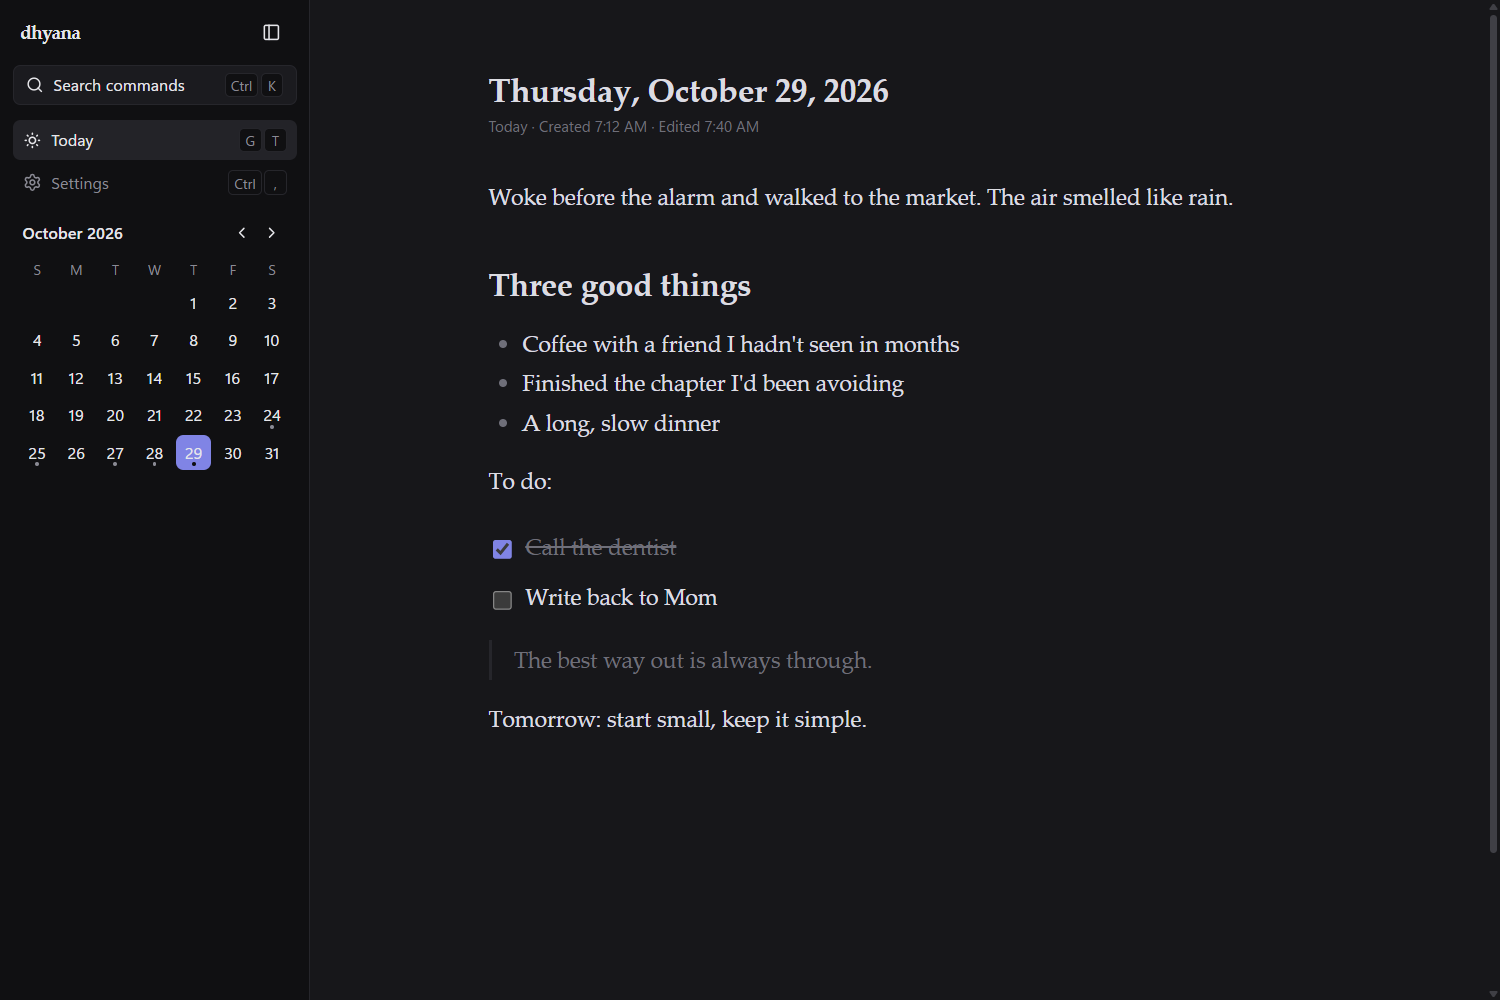
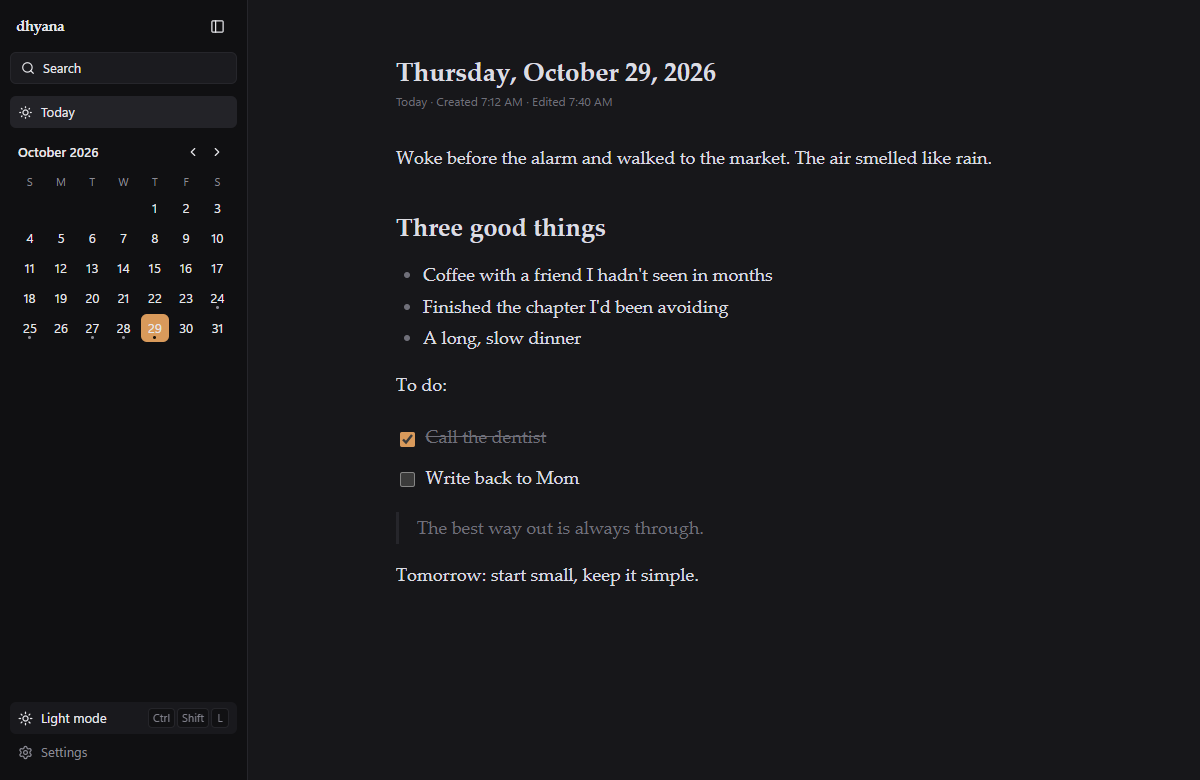
Sidebar and theme polish
- Settings moves to the bottom of the sidebar, with a dark/light toggle above it
- Shortcut hints on Today, Settings, Search and the toggle show on hover only
- "Search commands" becomes "Search"
- Themes are Dhyana (paper), Light and Dark; the sidebar and all chrome follow
  the theme instead of staying neutral grey
- Replace the indigo accent with a warm sienna (amber in dark) so buttons,
  selection and checkboxes match the rest of the app
- Toggle remembers which light theme to return to; Mod+Shift+L; toasts follow theme
- Update plans, shortcuts doc and README screenshots

diff --git a/src/components/Shell.tsx b/src/components/Shell.tsx
@@ -1,5 +1,5 @@
 import { Link, Outlet, useNavigate, useParams, useRouterState } from "@tanstack/react-router";
-import { PanelLeft, Search, Settings as SettingsIcon, SunMedium } from "lucide-react";
+import { Moon, PanelLeft, Search, Settings as SettingsIcon, Sun, SunMedium } from "lucide-react";
 import { useEffect } from "react";
 import { Toaster } from "sonner";
 import { useActions, useHotkeys, useRolloverNotice } from "@/app/actions";
@@ -28,6 +28,7 @@ export function Shell() {
     return () => dispose?.();
   }, []);
 
+  const dark = app.app?.theme === "dark";
   const shortcutOf = (id: string) => actions.find((a) => a.id === id)?.shortcut;
 
   return (
@@ -48,11 +49,11 @@ export function Shell() {
 
         <button
           onClick={() => app.openPalette("commands")}
-          className="flex h-8 items-center gap-2 rounded-md border border-border bg-popover px-2.5 text-muted transition-colors duration-100 hover:bg-chrome-hover"
+          className="group flex h-8 items-center gap-2 rounded-md border border-border bg-popover px-2.5 text-muted transition-colors duration-100 hover:bg-chrome-hover"
         >
           <Search size={14} />
-          <span className="flex-1 text-left">Search commands</span>
-          <Kbd shortcut="mod+k" />
+          <span className="flex-1 text-left">Search</span>
+          <Kbd shortcut="mod+k" className={REVEAL} />
         </button>
 
         <nav className="flex flex-col gap-0.5">
@@ -64,6 +65,19 @@ export function Shell() {
             label="Today"
             shortcut={shortcutOf("today")}
           />
+        </nav>
+
+        <Calendar selected={selected} onSelect={(date) => navigate({ to: "/day/$date", params: { date } })} />
+
+        <div className="mt-auto flex flex-col gap-0.5">
+          <button
+            onClick={() => void app.toggleMode()}
+            className={cn(ROW, "group text-muted hover:bg-chrome-hover hover:text-fg")}
+          >
+            {dark ? <Sun size={15} /> : <Moon size={15} />}
+            <span className="flex-1 text-left">{dark ? "Light mode" : "Dark mode"}</span>
+            {shortcutOf("mode") && <Kbd shortcut={shortcutOf("mode")!} className={REVEAL} />}
+          </button>
           <NavLink
             to="/settings"
             active={onSettings}
@@ -71,9 +85,7 @@ export function Shell() {
             label="Settings"
             shortcut={shortcutOf("settings")}
           />
-        </nav>
-
-        <Calendar selected={selected} onSelect={(date) => navigate({ to: "/day/$date", params: { date } })} />
+        </div>
       </aside>
 
       <main className="relative min-w-0 flex-1 overflow-hidden bg-surface">
@@ -88,10 +100,20 @@ export function Shell() {
       </main>
 
       <CommandPalette actions={actions} />
-      <Toaster position="bottom-right" theme="system" toastOptions={{ className: "!font-[family-name:var(--font-ui)]" }} />
+      <Toaster
+        position="bottom-right"
+        theme={dark ? "dark" : "light"}
+        toastOptions={{
+          style: { background: "var(--popover)", color: "var(--fg)", border: "1px solid var(--border)", fontFamily: "var(--font-ui)" },
+        }}
+      />
     </div>
   );
 }
+
+/** Shortcut hints appear only while the row is hovered or keyboard-focused. */
+const REVEAL = "opacity-0 transition-opacity duration-100 group-hover:opacity-100 group-focus-visible:opacity-100";
+const ROW = "flex h-8 items-center gap-2 rounded-md px-2 text-[13px] transition-colors duration-100";
 
 function NavLink(props: {
   to: "/day/$date" | "/settings";
@@ -106,13 +128,14 @@ function NavLink(props: {
       to={props.to}
       params={props.params as never}
       className={cn(
-        "flex h-8 items-center gap-2 rounded-md px-2 text-[13px] transition-colors duration-100",
+        ROW,
+        "group",
         props.active ? "bg-chrome-active text-fg" : "text-muted hover:bg-chrome-hover hover:text-fg",
       )}
     >
       {props.icon}
       <span className="flex-1">{props.label}</span>
-      {props.shortcut && <Kbd shortcut={props.shortcut} />}
+      {props.shortcut && <Kbd shortcut={props.shortcut} className={REVEAL} />}
     </Link>
   );
 }

diff --git a/src/app/context.tsx b/src/app/context.tsx
@@ -18,6 +18,8 @@ interface AppContextValue {
   app: AppState | null;
   loadError: string | null;
   updateSettings(patch: SettingsPatch): Promise<void>;
+  /** Flip between dark and the light theme you were last using (dhyana or light). */
+  toggleMode(): Promise<void>;
   setVault(path: string): Promise<void>;
   /** Live-preview an appearance without persisting it (onboarding). Pass null to revert. */
   previewAppearance(a: { theme: Theme; font: Font } | null): void;
@@ -50,6 +52,24 @@ export function useApp(): AppContextValue {
   const v = useContext(Ctx);
   if (!v) throw new Error("useApp outside AppProvider");
   return v;
+}
+
+const LAST_LIGHT_KEY = "dhyana:lastLightTheme";
+
+function rememberLight(theme: Theme) {
+  try {
+    localStorage.setItem(LAST_LIGHT_KEY, theme);
+  } catch {
+    /* storage unavailable: fall back to the dhyana theme */
+  }
+}
+
+function recallLight(): Theme {
+  try {
+    return localStorage.getItem(LAST_LIGHT_KEY) === "light" ? "light" : "paper";
+  } catch {
+    return "paper";
+  }
 }
 
 function applyAppearance(theme: Theme, font: Font) {
@@ -96,6 +116,16 @@ export function AppProvider({ children }: { children: ReactNode }) {
     applyAppearance(next.theme, next.font);
   }, []);
 
+  const toggleMode = useCallback(async () => {
+    if (!app) return;
+    if (app.theme === "dark") {
+      await updateSettings({ theme: recallLight() });
+    } else {
+      rememberLight(app.theme);
+      await updateSettings({ theme: "dark" });
+    }
+  }, [app, updateSettings]);
+
   const setVault = useCallback(async (path: string) => {
     setApp(await backend.setVault(path));
     setDaysVersion((v) => v + 1);
@@ -114,6 +144,7 @@ export function AppProvider({ children }: { children: ReactNode }) {
       app,
       loadError,
       updateSettings,
+      toggleMode,
       setVault,
       previewAppearance,
       today,
@@ -133,7 +164,7 @@ export function AppProvider({ children }: { children: ReactNode }) {
       bumpDays: () => setDaysVersion((v) => v + 1),
       focusEditor,
     }),
-    [app, loadError, updateSettings, setVault, previewAppearance, today, replaying, sidebarOpen, paletteOpen, paletteMode, daysVersion],
+    [app, loadError, updateSettings, toggleMode, setVault, previewAppearance, today, replaying, sidebarOpen, paletteOpen, paletteMode, daysVersion],
   );
 
   return <Ctx.Provider value={value}>{children}</Ctx.Provider>;

diff --git a/src/styles/index.css b/src/styles/index.css
@@ -1,34 +1,45 @@
 @import "tailwindcss";
 
 /* ---------------------------------------------------------------------------------------------
-   Design tokens. Chrome (sidebar, palette, settings) stays Linear-neutral in every theme; the
-   "paper" theme only warms the writing surface.
+   Design tokens. Three themes: "paper" (the dhyana theme, the default), "light" and "dark".
+   The whole app, sidebar included, follows the theme. The accent is a warm sienna in all three.
    --------------------------------------------------------------------------------------------- */
 :root,
 :root[data-theme="paper"] {
-  --chrome: #f6f6f7;
-  --chrome-hover: #ececee;
-  --chrome-active: #e4e4e8;
+  --chrome: #efe6d3;
+  --chrome-hover: #e8dec9;
+  --chrome-active: #e0d4bb;
   --surface: #f6efe2;
   --surface-fg: #3b3226;
-  --surface-muted: #9a8c76;
+  --surface-muted: #8a7c66;
   --surface-line: #e6dcc7;
-  --fg: #1f1f23;
-  --muted: #74747e;
-  --border: #e3e3e7;
-  --accent: #5e6ad2;
-  --accent-fg: #ffffff;
-  --popover: #ffffff;
+  --fg: #3b3226;
+  --muted: #6f6350;
+  --border: #e0d4bb;
+  --accent: #9a5b2e;
+  --accent-fg: #fff8ee;
+  --popover: #fbf7ee;
   --code-bg: rgba(90, 70, 40, 0.08);
-  --selection: rgba(94, 106, 210, 0.22);
+  --selection: rgba(154, 91, 46, 0.22);
   color-scheme: light;
 }
 :root[data-theme="light"] {
+  --chrome: #f6f6f7;
+  --chrome-hover: #ececee;
+  --chrome-active: #e4e4e8;
   --surface: #ffffff;
   --surface-fg: #1f1f23;
   --surface-muted: #8b8b95;
   --surface-line: #ebebef;
+  --fg: #1f1f23;
+  --muted: #74747e;
+  --border: #e3e3e7;
+  --accent: #9a5b2e;
+  --accent-fg: #ffffff;
+  --popover: #ffffff;
   --code-bg: rgba(0, 0, 0, 0.05);
+  --selection: rgba(154, 91, 46, 0.2);
+  color-scheme: light;
 }
 :root[data-theme="dark"] {
   --chrome: #101012;
@@ -41,11 +52,11 @@
   --fg: #e6e6ea;
   --muted: #8a8a94;
   --border: #26262b;
-  --accent: #7a85e8;
-  --accent-fg: #0e0e10;
+  --accent: #d99a5b;
+  --accent-fg: #1a1208;
   --popover: #1b1b1f;
   --code-bg: rgba(255, 255, 255, 0.07);
-  --selection: rgba(122, 133, 232, 0.3);
+  --selection: rgba(217, 154, 91, 0.28);
   color-scheme: dark;
 }
 

diff --git a/src/components/SettingsPage.tsx b/src/components/SettingsPage.tsx
@@ -9,6 +9,7 @@ import { cn } from "@/lib/utils";
 const THEMES: Theme[] = ["paper", "light", "dark"];
 const FONTS: Font[] = ["serif", "sans", "mono"];
 const cap = (s: string) => s[0].toUpperCase() + s.slice(1);
+const THEME_LABELS: Record<Theme, string> = { paper: "Dhyana", light: "Light", dark: "Dark" };
 
 export function SettingsPage() {
   const app = useApp();
@@ -29,7 +30,7 @@ export function SettingsPage() {
 
         <Section title="Appearance">
           <Row label="Theme">
-            <Segmented options={THEMES} value={state.theme} onChange={(theme) => void app.updateSettings({ theme })} />
+            <Segmented options={THEMES} labels={THEME_LABELS} value={state.theme} onChange={(theme) => void app.updateSettings({ theme })} />
           </Row>
           <Row label="Writing font">
             <Segmented options={FONTS} value={state.font} onChange={(font) => void app.updateSettings({ font })} />
@@ -95,7 +96,17 @@ function Row({ label, hint, children }: { label: string; hint?: string; children
   );
 }
 
-function Segmented<T extends string>({ options, value, onChange }: { options: T[]; value: T; onChange(v: T): void }) {
+function Segmented<T extends string>({
+  options,
+  labels,
+  value,
+  onChange,
+}: {
+  options: T[];
+  labels?: Record<T, string>;
+  value: T;
+  onChange(v: T): void;
+}) {
   return (
     <div className="flex rounded-md border border-border bg-popover p-0.5" role="group">
       {options.map((o) => (
@@ -108,7 +119,7 @@ function Segmented<T extends string>({ options, value, onChange }: { options: T[
             value === o ? "bg-chrome-active text-fg" : "text-muted hover:text-fg",
           )}
         >
-          {cap(o)}
+          {labels?.[o] ?? cap(o)}
         </button>
       ))}
     </div>

diff --git a/src/app/actions.ts b/src/app/actions.ts
@@ -25,13 +25,14 @@ export function useActions(): Action[] {
       { id: "sidebar", label: "Toggle sidebar", group: "App", shortcut: "mod+\\", run: app.toggleSidebar },
       { id: "settings", label: "Open settings", group: "App", shortcut: "mod+,", also: ["g s"], keywords: "preferences", run: () => navigate({ to: "/settings" }) },
       { id: "shortcuts", label: "Show keyboard shortcuts", group: "App", shortcut: "?", keywords: "help keys", run: () => navigate({ to: "/settings", hash: "shortcuts" }) },
-      { id: "theme-paper", label: "Theme: Paper", group: "App", keywords: "appearance warm", run: () => void app.updateSettings({ theme: "paper" }) },
+      { id: "mode", label: "Toggle dark / light mode", group: "App", shortcut: "mod+shift+l", keywords: "theme appearance night", run: () => void app.toggleMode() },
+      { id: "theme-paper", label: "Theme: Dhyana", group: "App", keywords: "appearance warm", run: () => void app.updateSettings({ theme: "paper" }) },
       { id: "theme-light", label: "Theme: Light", group: "App", keywords: "appearance", run: () => void app.updateSettings({ theme: "light" }) },
       { id: "theme-dark", label: "Theme: Dark", group: "App", keywords: "appearance night", run: () => void app.updateSettings({ theme: "dark" }) },
       { id: "onboarding", label: "Replay onboarding", group: "App", keywords: "welcome setup tour", run: app.replayOnboarding },
     ],
     // eslint-disable-next-line react-hooks/exhaustive-deps
-    [app.today, app.toggleSidebar, app.replayOnboarding, current, navigate],
+    [app.today, app.toggleSidebar, app.toggleMode, app.replayOnboarding, current, navigate],
   );
 }
 

diff --git a/index.html b/index.html
@@ -8,11 +8,10 @@
     <style>
       /* Static splash: visible before JS loads; removed once the vault is open. */
       #splash { position: fixed; inset: 0; display: flex; flex-direction: column; align-items: center;
-        justify-content: center; gap: 14px; background: #f4eee3; color: #8a7a62;
+        justify-content: center; gap: 14px; background: #f6efe2; color: #8a7c66;
         font: 500 15px/1 system-ui, sans-serif; letter-spacing: .02em; transition: opacity .15s; z-index: 100; }
       #splash .mark { font: 600 34px/1 Georgia, serif; color: #5b4a33; letter-spacing: .01em; }
-      @media (prefers-color-scheme: dark) { #splash { background: #17171a; color: #77777f; } #splash .mark { color: #d6d6dc; } }
-    </style>
+          </style>
   </head>
   <body>
     <div id="splash"><div class="mark">dhyana</div><div>opening your journal…</div></div>

diff --git a/src/components/Onboarding.tsx b/src/components/Onboarding.tsx
@@ -10,7 +10,7 @@ const STEPS = ["welcome", "vault", "look", "done"] as const;
 type Step = (typeof STEPS)[number];
 
 const THEMES: { id: Theme; label: string; swatch: string; ink: string }[] = [
-  { id: "paper", label: "Paper", swatch: "#f6efe2", ink: "#3b3226" },
+  { id: "paper", label: "Dhyana", swatch: "#f6efe2", ink: "#3b3226" },
   { id: "light", label: "Light", swatch: "#ffffff", ink: "#1f1f23" },
   { id: "dark", label: "Dark", swatch: "#17171a", ink: "#dcdce2" },
 ];

diff --git a/docs/plans/release-0.1-writing-core.md b/docs/plans/release-0.1-writing-core.md
@@ -6,7 +6,7 @@
 - Tauri 2 + Vite + React + TS + Tailwind + shadcn + TanStack Router + zod scaffold; lint/format/test setup (Vitest, Playwright optional, `cargo test`).
 - **Splash screen** (shows while Rust core opens the vault).
 - **Onboarding** (first launch): welcome → choose/create vault folder → theme/font → done. (Journal day = local calendar day, midnight to midnight.) Skippable defaults. Also mention that phone capture is possible via Obsidian (link to `docs/mobile.md`).
-- **Settings** (minimal page, opened from sidebar and palette): theme/font, vault location (read-only display), **Replay onboarding**, and a keyboard-shortcuts reference.
+- **Settings** (minimal page, opened from the bottom of the sidebar or the palette): theme (Dhyana / Light / Dark) and font, vault location (read-only display), **Replay onboarding**, and a keyboard-shortcuts reference.
   - *Replay onboarding* reruns the flow at any time (handy during development). It is non-destructive: steps are prefilled with current values, the vault step defaults to "keep current vault" (switching vaults asks for confirmation and never moves or deletes files), and finishing just saves the chosen theme/font. The "onboarding completed" flag lives in app data.
 - **Command palette + shortcut registry** (pulled forward from the backlog; the Linear-feel centerpiece, master principle 9). Ctrl/Cmd+K opens a fuzzy palette: go to today, go to date, previous/next day, toggle sidebar, open settings, replay onboarding. One registry defines every action, its shortcut, and its label; the palette, tooltips, and settings reference all read from it. Shortcuts are fixed in 0.1 (remapping is 0.8).
 - **Opens to today's note.** Resolve today in the system's local timezone; create file lazily on first keystroke (no empty files). **Midnight rollover:** if the date changes while the app is open, offer the new day without replacing the open draft.
@@ -19,7 +19,7 @@
   - Fallback if splicing proves unreliable: normalize only files dhyana created itself; never normalize imported files.
 - **Calendar** (sidebar month view) marking days with entries; click navigates. Prev/next day shortcuts.
 - **External-change handling (basic)**: file watcher; if file changed on disk and editor clean → reload; if dirty → non-destructive prompt.
-- **Design:** Linear-like (master principle 9): minimal layout, instant response, muted neutral chrome, collapsible sidebar, subtle motion. Paper theme (warm light brown, subtle) and serif body font apply to the writing surface; readable column width.
+- **Design:** Linear-like (master principle 9): minimal layout, instant response, collapsible sidebar, subtle motion. Sidebar layout: search, Today, calendar; at the bottom a dark/light toggle above Settings. Shortcut hints show on hover only. The Dhyana (paper) theme styles the entire app, sidebar included, with a warm accent; serif body font and a readable column width on the writing surface.
 - **Docs skeleton:** root `README.md` (short: tagline, screenshots, quick start, links) plus `docs/getting-started.md`, `tech-stack.md`, `architecture.md` (mermaid diagram), `vault-format.md`, `keyboard-shortcuts.md`, `mobile.md` per master §10. Fill the Commands section of `CLAUDE.md` once the scaffold exists.
 
 ## Not in 0.1

diff --git a/docs/plans/00-master-plan.md b/docs/plans/00-master-plan.md
@@ -50,7 +50,8 @@ Personal-use app (not distributed), so copying ideas/code from reference project
 9. **Feels like Linear.** Fast, calm, keyboard-first.
    - Every local action responds instantly (no spinners for disk work); animations are short (~100-150ms) and subtle.
    - Every action is reachable from the command palette (Ctrl/Cmd+K) and has a shortcut shown next to it. One shortcut registry feeds the palette, tooltips, and settings.
-   - Dense-but-quiet chrome: muted neutral UI, resizable/collapsible sidebar, consistent icon set, focus rings, hover/selected states done carefully. The paper theme styles the writing surface; the surrounding chrome stays Linear-neutral.
+   - Dense-but-quiet chrome: collapsible sidebar, consistent icon set, focus rings, hover/selected states done carefully. Shortcut hints appear on hover, not permanently.
+   - Themes: **Dhyana** (paper, the default), **Light** and **Dark**. The whole app, sidebar included, follows the theme (not just the writing surface). The accent is a warm sienna in every theme, deliberately not Linear's indigo. A one-click dark/light toggle sits above Settings at the bottom of the sidebar; it returns to whichever light theme you were using.
    - Single-key shortcuts and `g`-style sequences work only outside the editor (it is always editable); modifier shortcuts work everywhere. `Esc` leaves the editor.
 
 ## 3. Critical review of the Perplexity report

diff --git a/docs/plans/backlog.md b/docs/plans/backlog.md
@@ -11,5 +11,5 @@
 - Multimodal quick capture (photos, voice memos, screenshots) à la NoteGen.
 - Mobile (Tauri mobile) or a companion capture app, if Obsidian proves insufficient.
 - Native Google Drive/iCloud API sync.
-- Dark "sepia night" theme, additional themes, custom fonts.
+- Dark "sepia night" variant of the Dhyana theme, additional themes, custom fonts. (Plain Light and Dark shipped in 0.1.)
 - Source-peek (raw markdown) for tricky constructs — only if absolutely needed; conflicts with "no source mode" preference.

diff --git a/docs/keyboard-shortcuts.md b/docs/keyboard-shortcuts.md
@@ -10,10 +10,11 @@
 | Go to date… | `Mod G` or `G D` |
 | Focus editor | `I` |
 | Toggle sidebar | `Mod \` |
+| Toggle dark / light mode | `Mod Shift L` |
 | Open settings | `Mod ,` or `G S` |
 | Show keyboard shortcuts | `?` |
 | Replay onboarding | palette only |
-| Theme: Paper / Light / Dark | palette only |
+| Theme: Dhyana / Light / Dark | palette only |
 
 "Go to date" understands `2026-10-28`, `yesterday`, `tomorrow`, `-3`, `friday`, `next monday`, `last friday`.
 
